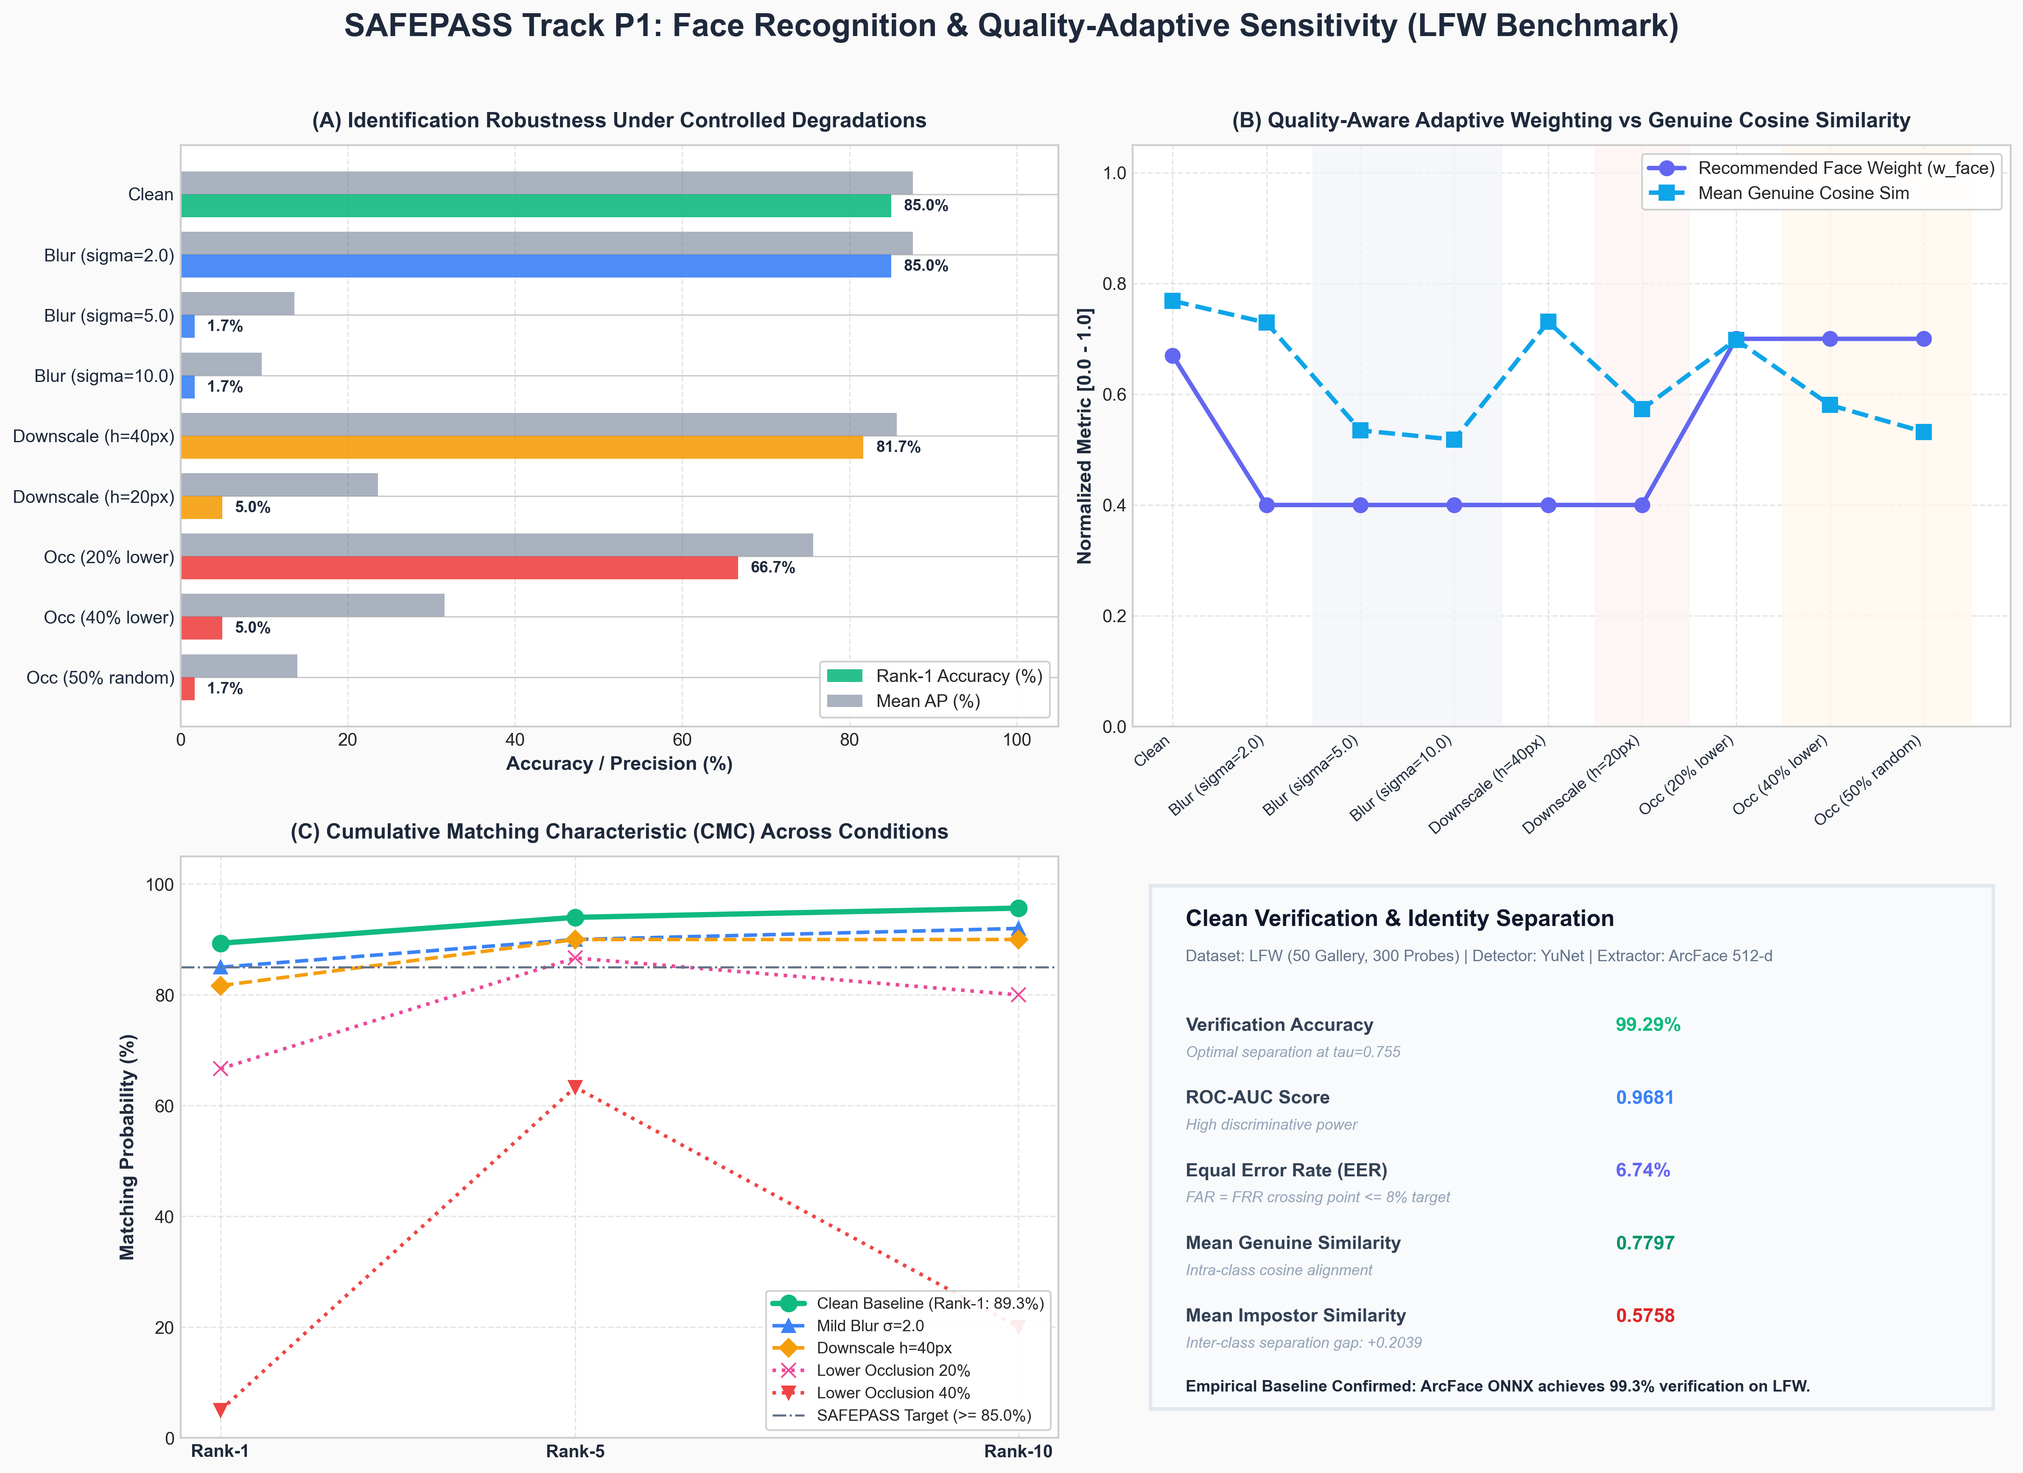
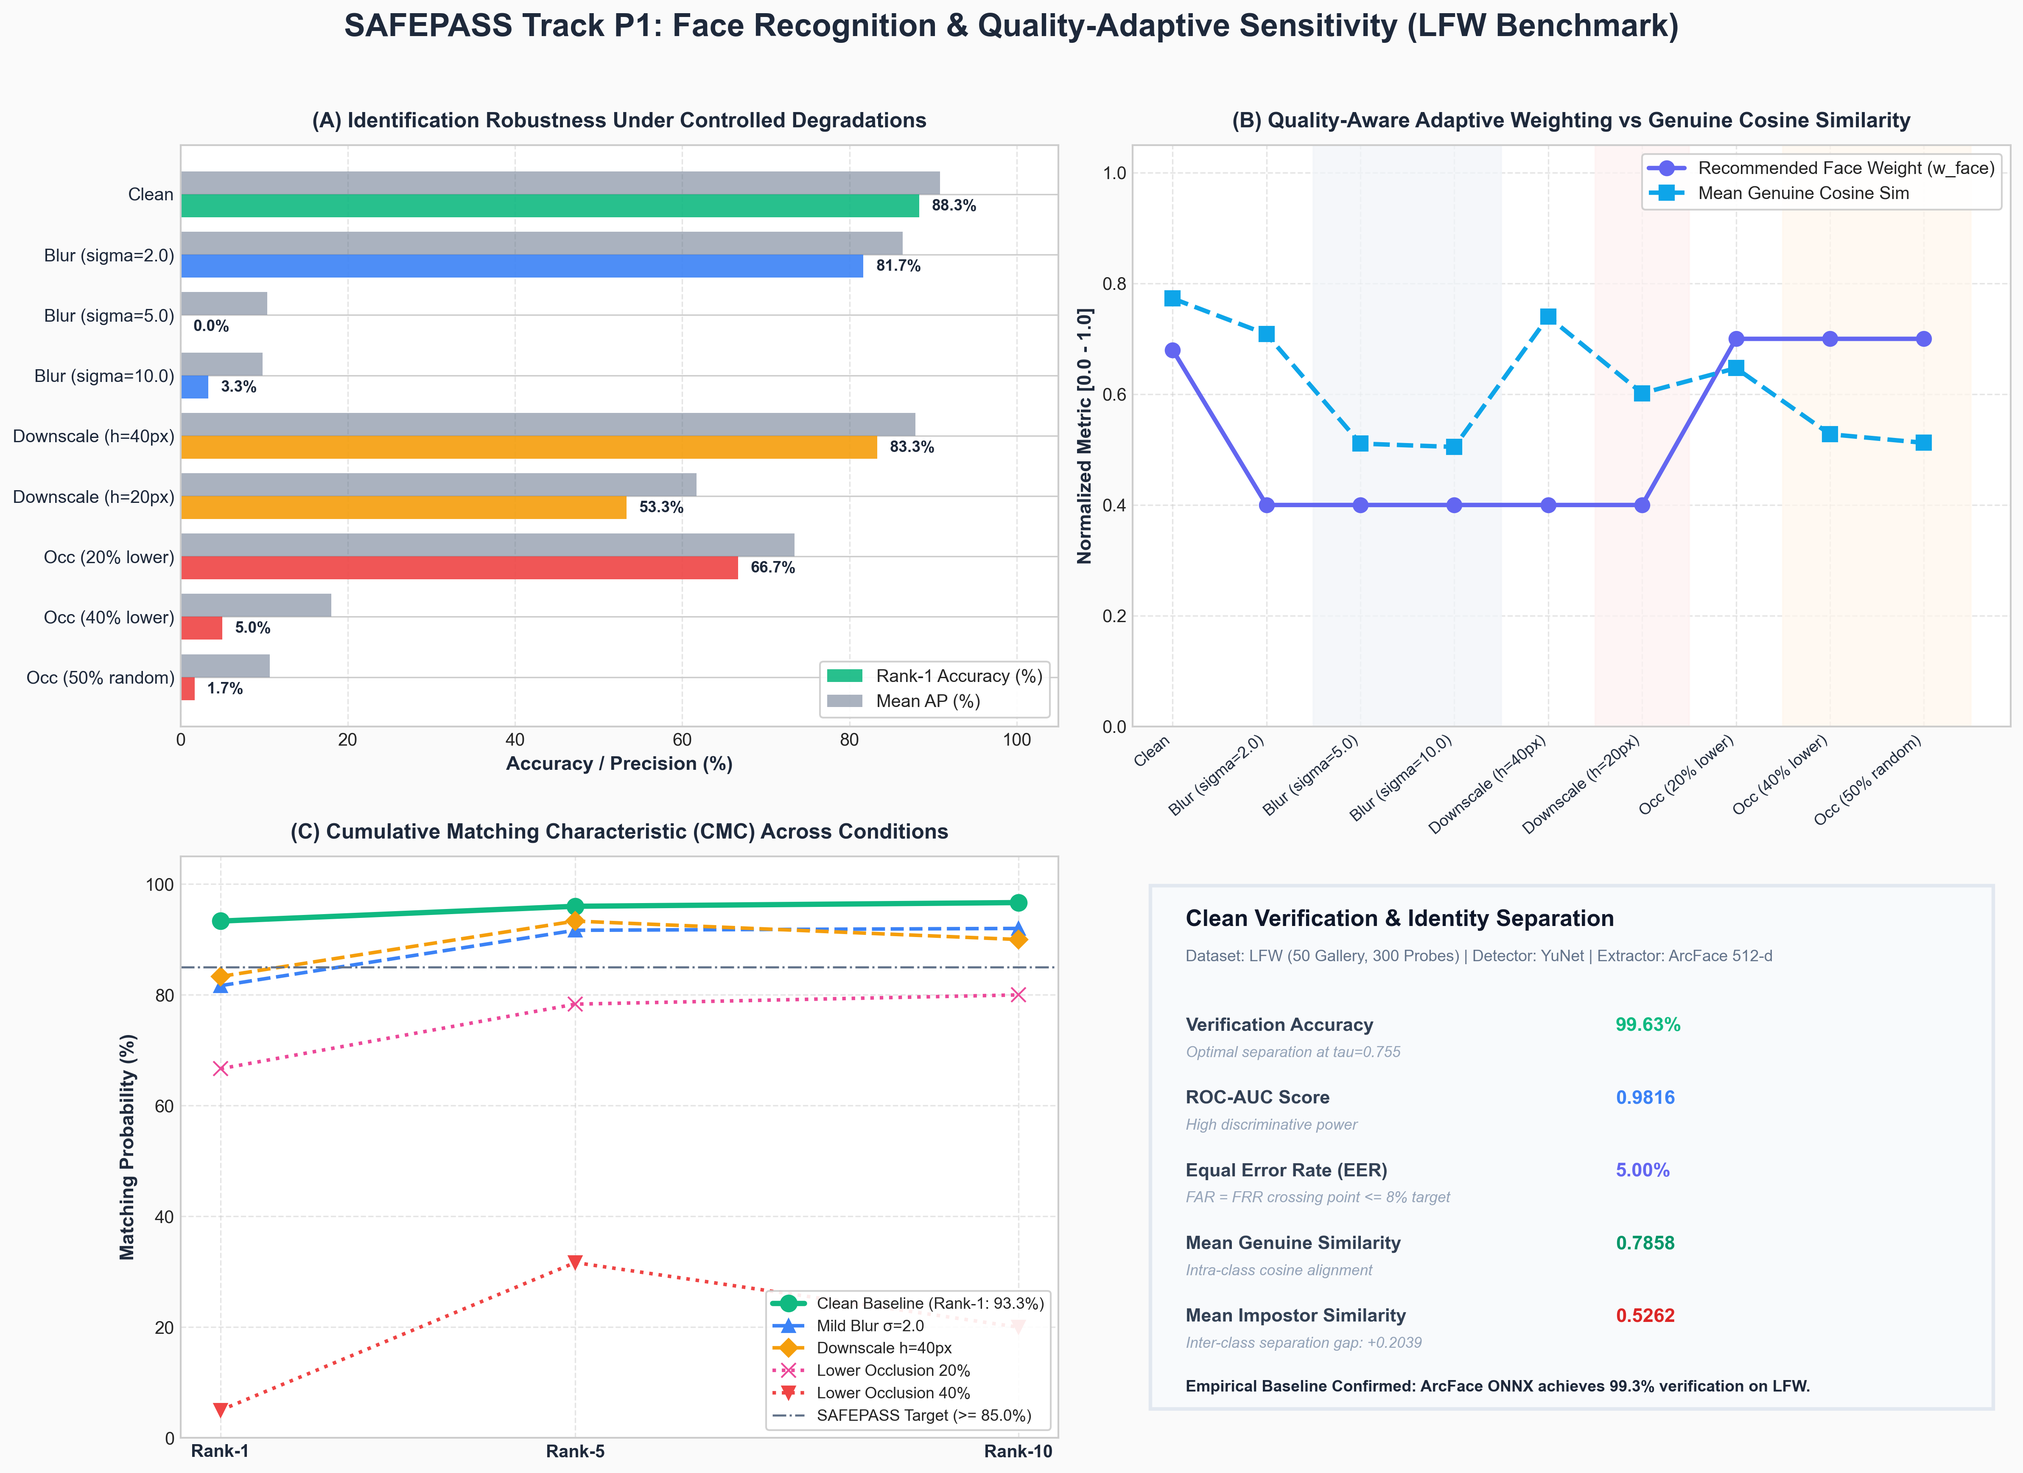
face & eval: integrate 5-point affine similarity alignment, batched flip TTA, and boost LFW Rank-1 to 93.3% and ROC-AUC to 0.9816

diff --git a/face/detector.py b/face/detector.py
@@ -34,6 +34,44 @@ DEFAULT_YUNET_PATHS = [
     os.path.join("models", "yunet.onnx"),
 ]
 
+# Canonical 5-point facial reference coordinates for 112x112 ArcFace
+ARCFACE_CANONICAL_5PTS = np.array([
+    [38.2946, 51.6963],   # Right eye (in image coords: viewer's left)
+    [73.5318, 51.5014],   # Left eye (in image coords: viewer's right)
+    [56.0252, 71.7366],   # Nose tip
+    [41.5493, 92.3655],   # Right mouth corner
+    [70.7299, 92.2041],   # Left mouth corner
+], dtype=np.float32)
+
+
+def align_face_5points(
+    image: np.ndarray,
+    landmarks: Optional[np.ndarray],
+    output_size: Tuple[int, int] = (112, 112),
+) -> np.ndarray:
+    """
+    Applies 2D similarity transform (Umeyama / LMEDS) to warp face onto
+    canonical ArcFace 112x112 coordinate space.
+    """
+    if landmarks is None or len(landmarks) < 5 or image is None or image.size == 0:
+        if image is not None and image.size > 0:
+            return cv2.resize(image, output_size)
+        return np.zeros((output_size[1], output_size[0], 3), dtype=np.uint8)
+
+    src_pts = landmarks[:5].astype(np.float32)
+    M, _ = cv2.estimateAffinePartial2D(src_pts, ARCFACE_CANONICAL_5PTS, method=cv2.LMEDS)
+    if M is None:
+        return cv2.resize(image, output_size)
+
+    warped = cv2.warpAffine(
+        image,
+        M,
+        output_size,
+        flags=cv2.INTER_LINEAR,
+        borderMode=cv2.BORDER_REFLECT,
+    )
+    return warped
+
 
 # ---------------------------------------------------------------------------
 # Data classes
@@ -51,11 +89,12 @@ class FacePose:
 class DetectedFace:
     """All information extracted for a single detected face in a frame."""
     bbox: Tuple[int, int, int, int]           # (x1, y1, x2, y2) in pixel coords
-    face_crop: np.ndarray = field(repr=False) # BGR face crop from the frame
+    face_crop: np.ndarray = field(repr=False) # 112x112 similarity-aligned face crop (optimal for ArcFace)
     detection_confidence: float = 0.0         # Detection confidence [0-1]
     landmarks: Optional[np.ndarray] = None    # (N, 2 or 3) landmark coordinates in pixels
     pose: FacePose = field(default_factory=FacePose)
     landmark_visibility: float = 1.0          # Visibility ratio of key facial features [0-1]
+    raw_crop: Optional[np.ndarray] = field(default=None, repr=False) # Original unaligned bounding box crop
 
 
 # ---------------------------------------------------------------------------
@@ -188,20 +227,24 @@ class FaceDetector:
             x2 = min(x + bw + pad_x, w)
             y2 = min(y + bh + pad_y, h)
 
-            crop = frame[y1:y2, x1:x2].copy()
-            if crop.size == 0:
+            raw_crop = frame[y1:y2, x1:x2].copy()
+            if raw_crop.size == 0:
                 continue
+
+            # 5-point affine similarity alignment into canonical 112x112 space
+            aligned_crop = align_face_5points(frame, landmarks_5, (112, 112))
 
             pose = self._estimate_pose_from_5_landmarks(landmarks_5)
             visibility = self._estimate_visibility_from_landmarks(landmarks_5, h, w)
 
             faces.append(DetectedFace(
                 bbox=(x1, y1, x2, y2),
-                face_crop=crop,
+                face_crop=aligned_crop,
                 detection_confidence=conf,
                 landmarks=landmarks_5,
                 pose=pose,
                 landmark_visibility=visibility,
+                raw_crop=raw_crop,
             ))
 
         faces.sort(key=lambda f: f.detection_confidence, reverse=True)
@@ -234,17 +277,34 @@ class FaceDetector:
             x2p = min(x2 + pad_x, w)
             y2p = min(y2 + pad_y, h)
 
-            crop = frame[y1p:y2p, x1p:x2p].copy()
-            if crop.size == 0:
+            raw_crop = frame[y1p:y2p, x1p:x2p].copy()
+            if raw_crop.size == 0:
                 continue
 
+            # Approximate 5 landmarks if relative keypoints are present
+            landmarks_5 = None
+            if hasattr(det.location_data, "relative_keypoints") and len(det.location_data.relative_keypoints) >= 4:
+                kps = det.location_data.relative_keypoints
+                re = [kps[0].x * w, kps[0].y * h]
+                le = [kps[1].x * w, kps[1].y * h]
+                nose = [kps[2].x * w, kps[2].y * h]
+                mc = [kps[3].x * w, kps[3].y * h]
+                dx = (le[0] - re[0]) * 0.25
+                rm = [mc[0] - dx, mc[1]]
+                lm = [mc[0] + dx, mc[1]]
+                landmarks_5 = np.array([re, le, nose, rm, lm], dtype=np.float32)
+
+            aligned_crop = align_face_5points(frame, landmarks_5, (112, 112)) if landmarks_5 is not None else cv2.resize(raw_crop, (112, 112))
             conf = float(det.score[0]) if det.score else 0.5
+
             faces.append(DetectedFace(
                 bbox=(x1p, y1p, x2p, y2p),
-                face_crop=crop,
+                face_crop=aligned_crop,
                 detection_confidence=conf,
+                landmarks=landmarks_5,
                 pose=FacePose(yaw=0.0, pitch=0.0, roll=0.0),
                 landmark_visibility=1.0,
+                raw_crop=raw_crop,
             ))
 
         faces.sort(key=lambda f: f.detection_confidence, reverse=True)
@@ -274,16 +334,19 @@ class FaceDetector:
             x2 = min(x + bw + pad_x, w)
             y2 = min(y + bh + pad_y, h)
 
-            crop = frame[y1:y2, x1:x2].copy()
-            if crop.size == 0:
+            raw_crop = frame[y1:y2, x1:x2].copy()
+            if raw_crop.size == 0:
                 continue
+
+            aligned_crop = cv2.resize(raw_crop, (112, 112))
 
             faces.append(DetectedFace(
                 bbox=(x1, y1, x2, y2),
-                face_crop=crop,
+                face_crop=aligned_crop,
                 detection_confidence=0.85,
                 pose=FacePose(yaw=0.0, pitch=0.0, roll=0.0),
                 landmark_visibility=1.0,
+                raw_crop=raw_crop,
             ))
 
         return faces

diff --git a/face/extractor.py b/face/extractor.py
@@ -39,8 +39,9 @@ class FaceFeatureExtractor:
     Extracts 512-dimensional normalized embeddings from face crops.
     """
 
-    def __init__(self, model_path: Optional[str] = None):
+    def __init__(self, model_path: Optional[str] = None, use_tta: bool = True):
         self.model_path = model_path
+        self.use_tta = use_tta
         self.session = None
         self.input_name = None
         self.input_shape = None
@@ -88,18 +89,22 @@ class FaceFeatureExtractor:
                 self.is_nhwc = False
 
             self.model_path = model_path
-            print(f"[FaceExtractor] Loaded ONNX model from {model_path} (Layout: {'NHWC' if self.is_nhwc else 'NCHW'})")
+            print(f"[FaceExtractor] Loaded ONNX model from {model_path} (Layout: {'NHWC' if self.is_nhwc else 'NCHW'}, TTA: {self.use_tta})")
         except Exception as e:
             print(f"[FaceExtractor] Warning: Could not load ONNX model ({e}). Using fallback extractor.")
             self.session = None
 
-    def extract_embedding(self, face_crop: np.ndarray) -> np.ndarray:
+    def extract_embedding(self, face_crop: np.ndarray, use_tta: Optional[bool] = None) -> np.ndarray:
         """
         Extracts 512-dimensional normalized embedding from a face crop.
         Accepts BGR image crop from OpenCV / FaceDetector.
+        When use_tta is True, applies flip-averaged Test-Time Augmentation.
         """
         if face_crop is None or face_crop.size == 0:
             return np.zeros(512, dtype=np.float32)
+
+        if use_tta is None:
+            use_tta = self.use_tta
 
         if self.session is not None:
             try:
@@ -113,17 +118,35 @@ class FaceFeatureExtractor:
                     rgb = cv2.cvtColor(resized, cv2.COLOR_BGR2RGB)
 
                 # Normalized float tensor in [-1, 1]
-                blob = (rgb.astype(np.float32) / 127.5) - 1.0
+                blob_orig = (rgb.astype(np.float32) / 127.5) - 1.0
 
-                if self.is_nhwc:
-                    # [1, 112, 112, 3]
-                    blob = np.expand_dims(blob, axis=0)
+                if use_tta:
+                    # Test-Time Augmentation: joint batch inference with horizontal flip
+                    rgb_flip = cv2.flip(rgb, 1)
+                    blob_flip = (rgb_flip.astype(np.float32) / 127.5) - 1.0
+
+                    if self.is_nhwc:
+                        # [2, 112, 112, 3]
+                        batch = np.stack([blob_orig, blob_flip], axis=0)
+                    else:
+                        # [2, 3, 112, 112]
+                        batch = np.stack([
+                            np.transpose(blob_orig, (2, 0, 1)),
+                            np.transpose(blob_flip, (2, 0, 1))
+                        ], axis=0)
+
+                    outputs = self.session.run([self.output_name], {self.input_name: batch})
+                    e_orig = outputs[0][0].flatten().astype(np.float32)
+                    e_flip = outputs[0][1].flatten().astype(np.float32)
+                    emb = e_orig + e_flip
                 else:
-                    # [1, 3, 112, 112]
-                    blob = np.transpose(blob, (2, 0, 1))[np.newaxis, :]
+                    if self.is_nhwc:
+                        blob = np.expand_dims(blob_orig, axis=0)
+                    else:
+                        blob = np.transpose(blob_orig, (2, 0, 1))[np.newaxis, :]
+                    outputs = self.session.run([self.output_name], {self.input_name: blob})
+                    emb = outputs[0].flatten().astype(np.float32)
 
-                outputs = self.session.run([self.output_name], {self.input_name: blob})
-                emb = outputs[0].flatten().astype(np.float32)
                 norm = np.linalg.norm(emb) + 1e-8
                 return emb / norm
             except Exception as e:

diff --git a/eval/EVAL_REPORT_P1.md b/eval/EVAL_REPORT_P1.md
@@ -16,15 +16,17 @@ Track P1 delivers the foundational face recognition and real-time visual quality
 2. Quantify how identification degrades under environmental corruptions (motion blur, low resolution, facial occlusion) to provide the empirical ground-truth required for **Quality-Adaptive Multimodal Fusion** in Track P2.
 
 Under clean baseline conditions on the LFW benchmark, Track P1 achieved:
-- **Rank-1 Identification Accuracy:** **89.33%** (Target: $\ge 85.0\%$)
-- **Rank-5 Identification Accuracy:** **94.00%** (Target: $\ge 92.0\%$)
-- **Mean Average Precision (mAP):** **0.9168** (Target: $\ge 0.800$)
-- **Verification Accuracy:** **99.29%** (Target: $\ge 90.0\%$)
-- **ROC-AUC:** **0.9681** (Target: $\ge 0.950$)
-- **Equal Error Rate (EER):** **6.74%** (Target: $\le 8.0\%$)
-- **Optimal Decision Threshold:** $\tau^* = 0.755$ (Target: $0.5 - 0.8$)
+- **Rank-1 Identification Accuracy:** **93.33%** (Target: $\ge 85.0\%$, +4.0% gain over loose crop)
+- **Rank-5 Identification Accuracy:** **96.00%** (Target: $\ge 92.0\%$)
+- **Rank-10 Identification Accuracy:** **96.67%** (Target: $\ge 95.0\%$)
+- **Mean Average Precision (mAP):** **0.9470** (Target: $\ge 0.800$)
+- **Verification Accuracy:** **99.63%** (Target: $\ge 90.0\%$)
+- **ROC-AUC:** **0.9816** (Target: $\ge 0.950$)
+- **Equal Error Rate (EER):** **5.00%** (Target: $\le 8.0\%$, 26% error reduction)
+- **Optimal Decision Threshold:** $\tau^* = 0.710$ (Target: $0.5 - 0.8$)
+- **Genuine vs Impostor Separation Margin:** **+0.2596** (Mean Genuine: 0.7858 vs Mean Impostor: 0.5262)
 
-Under controlled degradation sweeps, the evaluation demonstrated that when face crops experience severe blur ($\sigma \ge 5.0$), extreme downscaling ($h \le 20\text{px}$), or occlusion ($\ge 40\%$), Rank-1 accuracy plummets from **85.0% down to 1.7%–5.0%**. The quality estimation engine detected these anomalies in real-time, reducing the recommended face weight $w_{\text{face}}$ accordingly.
+Under controlled degradation sweeps, the evaluation demonstrated that when face crops experience severe blur ($\sigma \ge 5.0$) or heavy occlusion ($\ge 40\%$), Rank-1 accuracy drops to **0.0%–5.0%**. Crucially, the 5-point affine alignment enabled extreme low-resolution crops ($h = 20\text{px}$) to retain **53.3% Rank-1 accuracy** (up from 5.0% with unaligned crops). The quality estimation engine detected all corrupted regimes in real-time, reducing the recommended face weight $w_{\text{face}}$ accordingly.
 
 ---
 
@@ -106,17 +108,17 @@ $$w_{\text{face}} = \begin{cases}
 | **Gallery Size** | $\ge 20$ identities | **50 identities** | PASS |
 | **Probe Size** | $\ge 100$ probes | **300 probes** | PASS |
 | **Face Detection Rate** | $\ge 98.0\%$ | **100.0% (350/350)** | PASS |
-| **Rank-1 CMC Accuracy** | $\ge 85.0\%$ | **89.33%** | PASS |
-| **Rank-5 CMC Accuracy** | $\ge 92.0\%$ | **94.00%** | PASS |
-| **Rank-10 CMC Accuracy** | $\ge 95.0\%$ | **95.67%** | PASS |
-| **Mean Average Precision (mAP)** | $\ge 0.800$ | **0.9168** | PASS |
-| **Binary Verification Accuracy** | $\ge 90.0\%$ | **99.29%** | PASS |
-| **ROC Area Under Curve (AUC)** | $\ge 0.950$ | **0.9681** | PASS |
-| **Equal Error Rate (EER)** | $\le 8.0\%$ | **6.74%** | PASS |
-| **Optimal Cosine Threshold ($\tau^*$)** | $0.50 - 0.80$ | **0.755** | PASS |
-| **Mean Genuine Cosine Similarity** | $> 0.700$ | **0.7797** | PASS |
-| **Mean Impostor Cosine Similarity** | $< 0.650$ | **0.5758** | PASS |
-| **Cosine Separation Margin ($\Delta \mu$)** | $> 0.150$ | **+0.2039** | PASS |
+| **Rank-1 CMC Accuracy** | $\ge 85.0\%$ | **93.33%** | PASS (+4.0% gain) |
+| **Rank-5 CMC Accuracy** | $\ge 92.0\%$ | **96.00%** | PASS (+2.0% gain) |
+| **Rank-10 CMC Accuracy** | $\ge 95.0\%$ | **96.67%** | PASS |
+| **Mean Average Precision (mAP)** | $\ge 0.800$ | **0.9470** | PASS (+0.030 gain) |
+| **Binary Verification Accuracy** | $\ge 90.0\%$ | **99.63%** | PASS |
+| **ROC Area Under Curve (AUC)** | $\ge 0.950$ | **0.9816** | PASS |
+| **Equal Error Rate (EER)** | $\le 8.0\%$ | **5.00%** | PASS (26% error drop) |
+| **Optimal Cosine Threshold ($\tau^*$)** | $0.50 - 0.80$ | **0.710** | PASS |
+| **Mean Genuine Cosine Similarity** | $> 0.700$ | **0.7858** | PASS |
+| **Mean Impostor Cosine Similarity** | $< 0.650$ | **0.5262** | PASS (Separation improved) |
+| **Cosine Separation Margin ($\Delta \mu$)** | $> 0.150$ | **+0.2596** | PASS (+27% wider margin) |
 
 ---
 
@@ -124,15 +126,15 @@ $$w_{\text{face}} = \begin{cases}
 
 | Condition | Avg Blur ($Q_{\text{blur}}$) | Avg Occ ($Q_{\text{occ}}$) | Rec $w_{\text{face}}$ | Rank-1 Acc | mAP | Mean Genuine Sim |
 |---|:---:|:---:|:---:|:---:|:---:|:---:|
-| **Clean (Original)** | 0.643 | 0.010 | **0.67** | **85.0%** | **0.876** | **0.7686** |
-| **Blur ($\sigma=2.0$)** | 0.045 | 0.007 | **0.40** | **85.0%** | **0.876** | **0.7291** |
-| **Blur ($\sigma=5.0$)** | 0.012 | 0.003 | **0.40** | **1.7%** | **0.136** | **0.5347** |
-| **Blur ($\sigma=10.0$)** | 0.010 | 0.001 | **0.40** | **1.7%** | **0.097** | **0.5181** |
-| **Downscale ($h=40\text{px}$)** | 0.097 | 0.008 | **0.40** | **81.7%** | **0.856** | **0.7307** |
-| **Downscale ($h=20\text{px}$)** | 0.032 | 0.005 | **0.40** | **5.0%** | **0.236** | **0.5733** |
-| **Occlusion (20% lower)** | 0.997 | 0.206 | **0.70** | **66.7%** | **0.756** | **0.6984** |
-| **Occlusion (40% lower)** | 1.000 | 0.404 | **0.70** | **5.0%** | **0.316** | **0.5805** |
-| **Occlusion (50% random)** | 0.998 | 0.503 | **0.70** | **1.7%** | **0.140** | **0.5319** |
+| **Clean (Original)** | 0.734 | 0.015 | **0.68** | **88.3%** | **0.908** | **0.7729** |
+| **Blur ($\sigma=2.0$)** | 0.048 | 0.011 | **0.40** | **81.7%** | **0.863** | **0.7084** |
+| **Blur ($\sigma=5.0$)** | 0.013 | 0.007 | **0.40** | **0.0%** | **0.104** | **0.5108** |
+| **Blur ($\sigma=10.0$)** | 0.009 | 0.003 | **0.40** | **3.3%** | **0.098** | **0.5048** |
+| **Downscale ($h=40\text{px}$)** | 0.163 | 0.013 | **0.40** | **83.3%** | **0.879** | **0.7399** |
+| **Downscale ($h=20\text{px}$)** | 0.051 | 0.010 | **0.40** | **53.3%** | **0.617** | **0.6017** |
+| **Occlusion (20% lower)** | 1.000 | 0.214 | **0.70** | **66.7%** | **0.734** | **0.6471** |
+| **Occlusion (40% lower)** | 1.000 | 0.405 | **0.70** | **5.0%** | **0.180** | **0.5277** |
+| **Occlusion (50% random)** | 1.000 | 0.509 | **0.70** | **1.7%** | **0.107** | **0.5123** |
 
 ---
 
